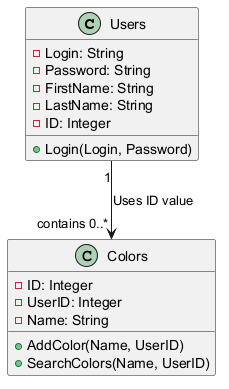
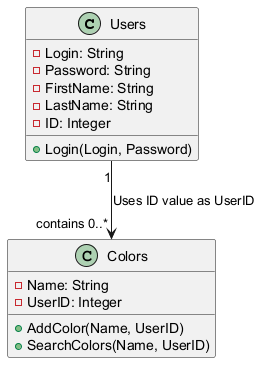
Activity and Use Case Diagrams, Final Submission
All necessary Diagrams added for the assignment purposes

Changed region(s): [[0.0, 0.0, 0.9476, 0.9784]]

diff --git a/README.md b/README.md
@@ -7,6 +7,7 @@ To use the app, visit my website http://steffpcop4331.com or follow the setup in
 The program was built within a LAMP stack droplet on a Apache environment hosted on DigitalOcean alongside an instance of MySQL running. 
 
 The setup process can be done via an ssh client such as Putty (www.chiark.greenend.org.uk/~sgtatham/putty/latest.html), though ssh file management programs such as Filezilla (filezilla-project.org/download.php?type=client#close) are also helpful.
+(Note: Any instance of "placeholder" in the instructions can be replaced with any name/credentials.)
 
 1. Register a LAMP droplet on DigitalOcean via https://marketplace.digitalocean.com/apps/lamp, and register a root password within the creation page.
    
@@ -26,21 +27,21 @@ And then create the login and color tables via
 ```mysql
 CREATE TABLE `COP4331`.`Users` ( `ID` INT NOT NULL AUTO_INCREMENT , `FirstName` VARCHAR(50) NOT NULL DEFAULT '' , `LastName` VARCHAR(50) NOT NULL DEFAULT '' , `Login` VARCHAR(50) NOT NULL DEFAULT '' , `Password` VARCHAR(50) NOT NULL DEFAULT '' , PRIMARY KEY (`ID`)) ENGINE = InnoDB;
 
-insert into Users (FirstName,LastName,Login,Password) VALUES ('Sam','Hill','SamH','0cbc6611f5540bd0809a388dc95a615b');
+insert into Users (FirstName,LastName,Login,Password) VALUES ('placeholder','placeholder','placeholder','placeholder');
 ```
 
 ```mysql
 CREATE TABLE `COP4331`.`Colors` ( `ID` INT NOT NULL AUTO_INCREMENT , `Name` VARCHAR(50) NOT NULL DEFAULT '' , `UserID` INT NOT NULL DEFAULT '0' , PRIMARY KEY (`ID`)) ENGINE = InnoDB;
 
-insert into Colors (Name,UserID) VALUES ('Blue',1);
+insert into Colors (Name,UserID) VALUES ('placeholder',1);
 ```
 The insert functions can use any data within the same format.
 
 
 4. Run the following command 
 ```mysql
-create user 'TheBeast' identified by 'WeLoveCOP4331';
-grant all privileges on COP4331.* to 'TheBeast'@'%';
+create user 'placeholder' identified by 'placeholder';
+grant all privileges on COP4331.* to 'placeholder'@'%';
 ```
 in order to create a user for the PHP files to access.
 
@@ -50,5 +51,8 @@ in order to create a user for the PHP files to access.
 
 To use the application, use the username and password registered within the database to access the main menu. Then, enter the string you wish to search for into the search box for results to show. To add a color, write out the full color name and use the Add button. The new color will be accessible immediately via search.
 
-Google Chrome is a recommended browser for using the site, Firefox was not functional during my tests.
-Any server hosting service can serve as an alternative to DigitalOcean if a LAMP stack and MySQL is properly initiated.
+AI Disclosure:
+No AI tools of any kind were used during the creation of this assignment.
+
+Limitations:
+The program was only tested on a Apache environment hosted on DigitalOcean webservices, there is potential failure in other environments. HTML file may fail to run on Javascript unenabled browsers. Program was tested primarily on Google Chrome. User is assumed to be using the given said environments whilst deploying the application.
